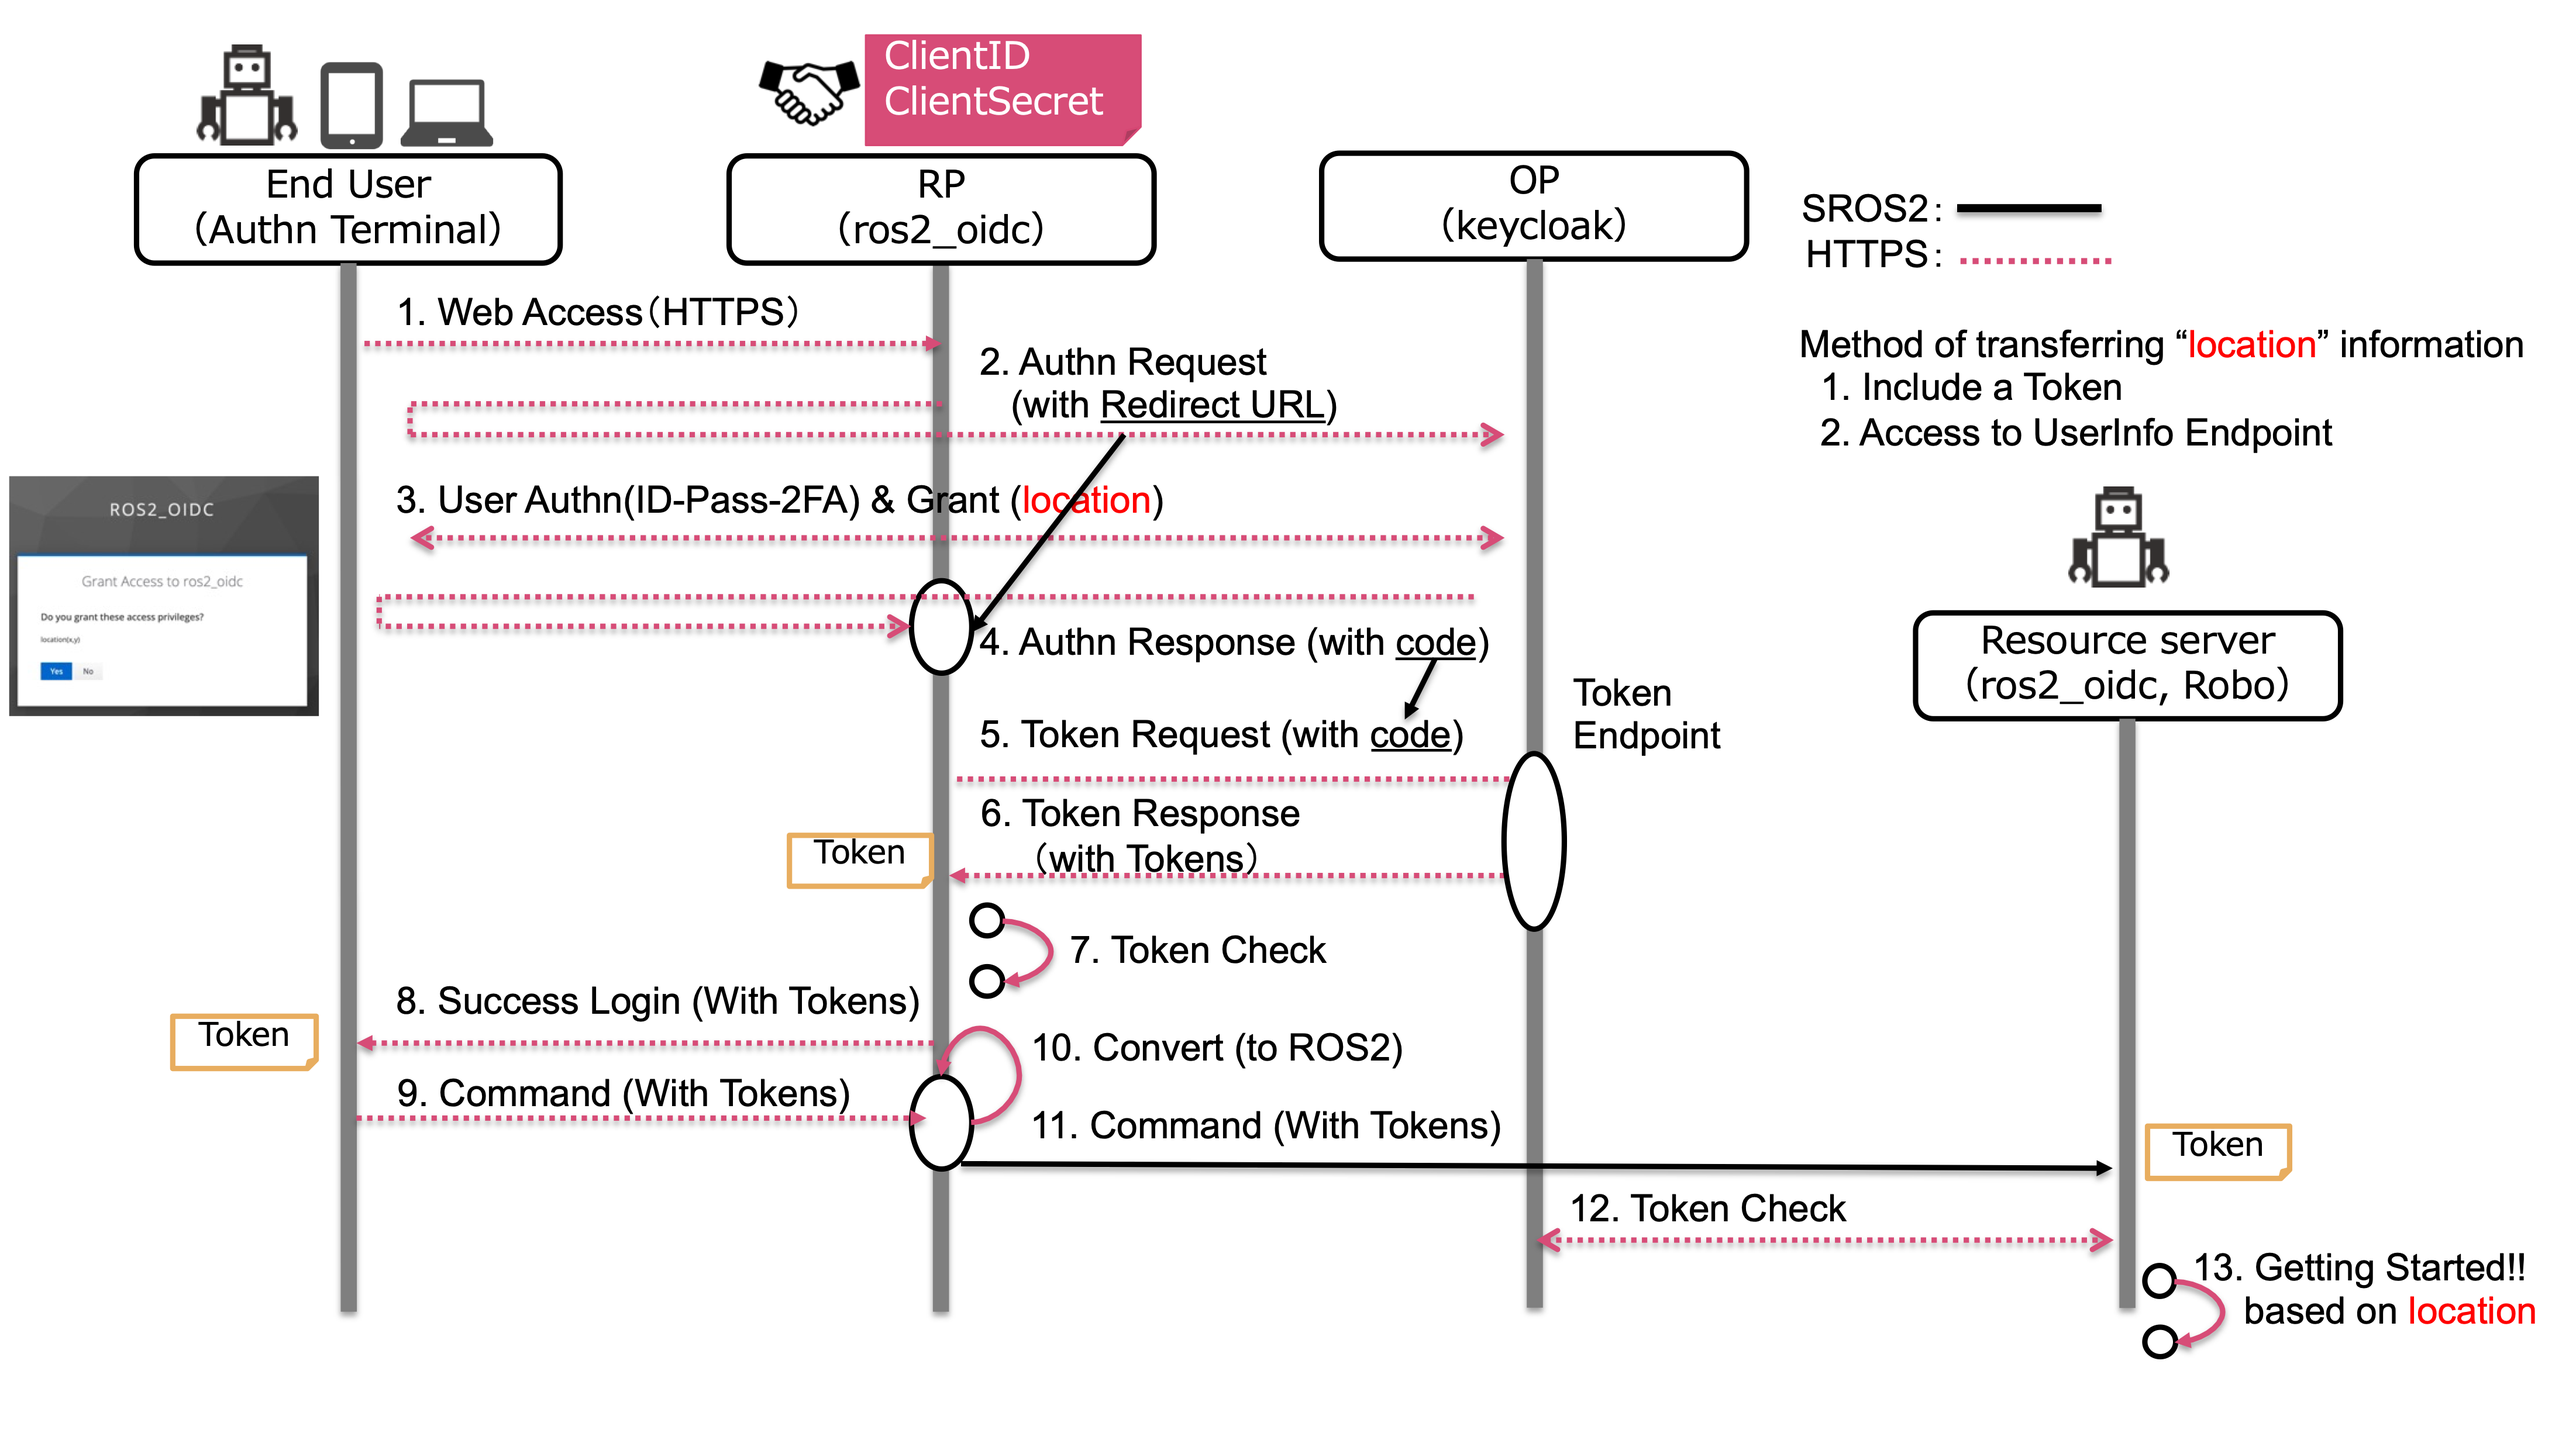
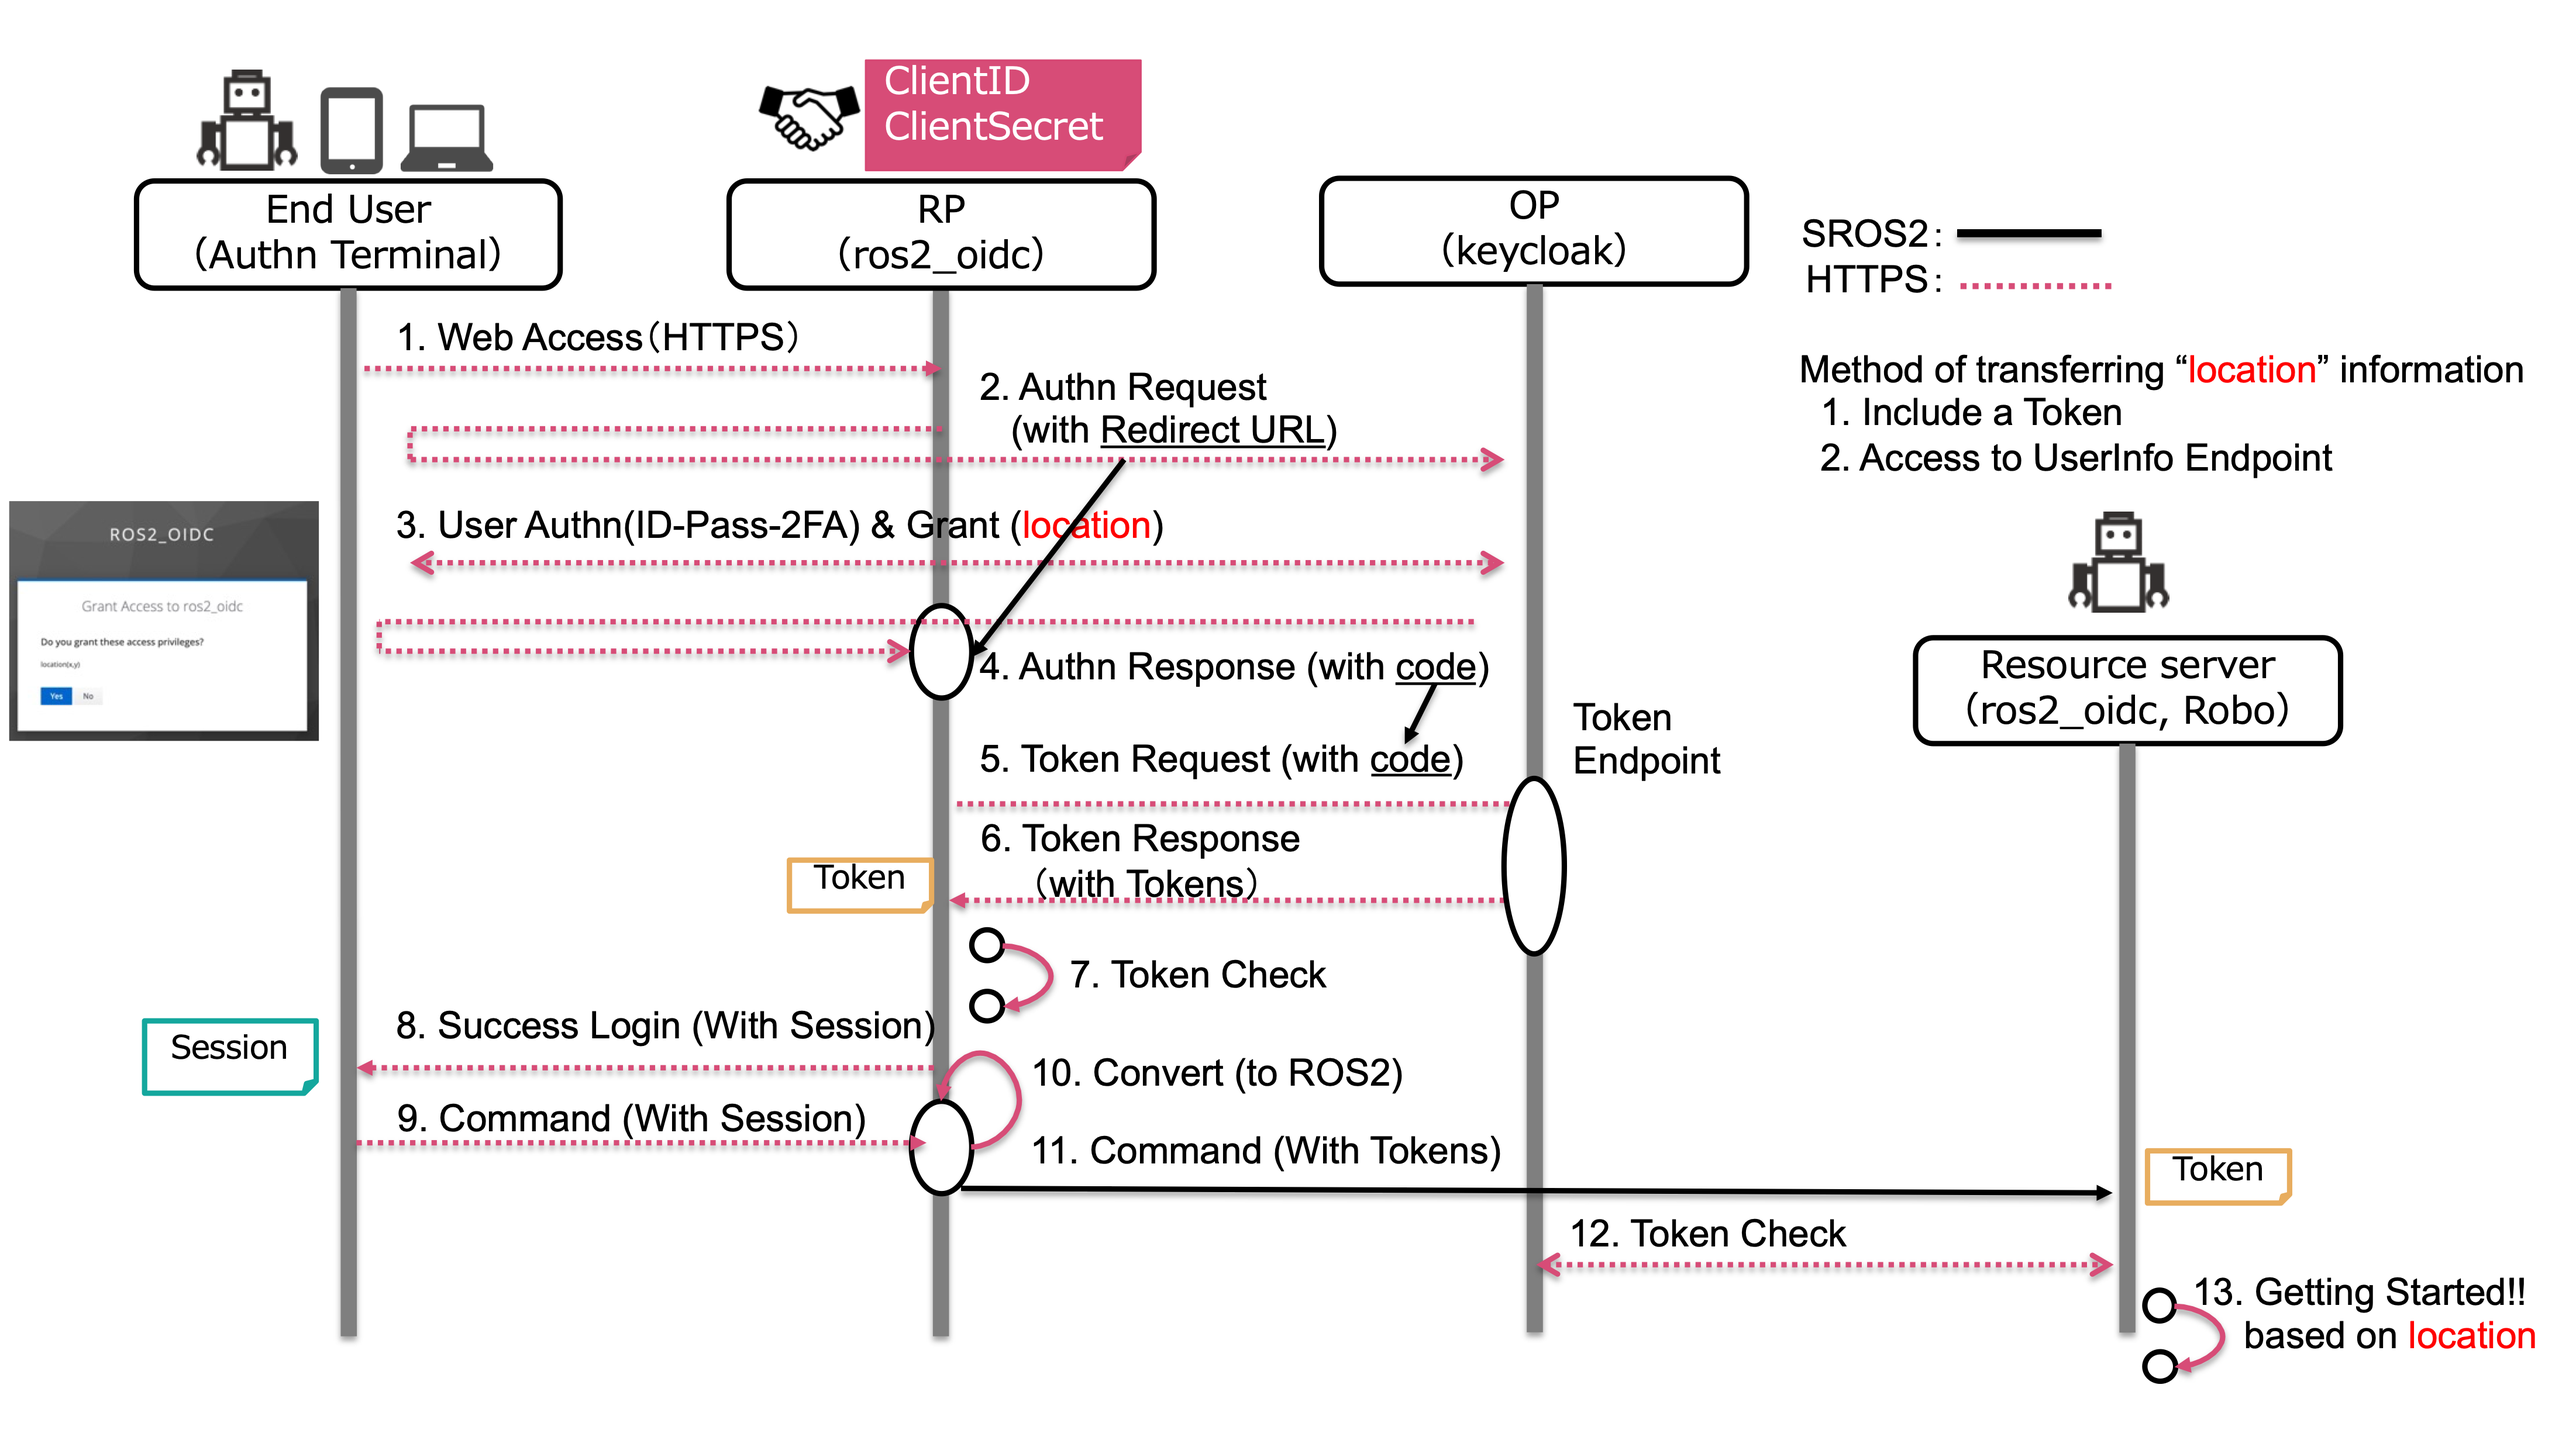
update images in the sros2_oidc

diff --git a/ros2/rdbox/sros2_oidc/README.md b/ros2/rdbox/sros2_oidc/README.md
@@ -1,4 +1,4 @@
-# SROS2 with OIDC(OpenID Connect) ：ロボットが安全に人を識別するための技術
+# SROS2 with OIDC(OpenID Connect) - Technology for robots to authenticate and authorize a human
 
 ## Video
 
@@ -11,7 +11,7 @@ https://user-images.githubusercontent.com/40556102/169439356-1eccb2bc-7004-42bd-
 
 この課題に対して、我々は「sros2_oidc」というパッケージを開発・公開した。本パッケージのアプローチでは、認証規約として[OIDC(OpenID Connect)](https://openid.net/connect/)を採用し、SROS2と組み合わせてロボット終端まで利用者情報を安全な経路で伝送するという方式を採る。
 
-![system architecture.png](/ros2/rdbox/sros2_oidc/docs/imgs/JP_system%20architecture.png)
+![system architecture.png](/ros2/rdbox/sros2_oidc/docs/imgs/EN_system%20architecture.png)
 
 OIDCはWebサービスではスタンダードな認証規約の一つである。ロボットに対してはユーザから同意が得られた最小限の情報だけ（例えば位置情報のみ）を連携することや、遠隔から利用権限を即時停止するなどその用途は多岐に渡る。また、OIDCで取り扱いに注意が必要な「アクセスToken」を、セキュリティを確保した上で「Relaying Party（OIDCとROS2の橋渡しを行う）」から、「Resource Server（実際に情報を受け取って命令を実行するロボット）」へ受け渡しするために「SROS2」を利用している（図2）。「PKI(公開鍵基盤)/セキュリティ規則を記述したXML」に基づくアクセス制御を行うSROS2は、固定されたノード間の通信において強みを発揮する。一方で、鍵の管理コストが、利用者が増えるたび増大するといった問題点もある。本パッケージのような橋渡しのための仕組みは、管理コストの低減に役立つことが期待できる。
 
